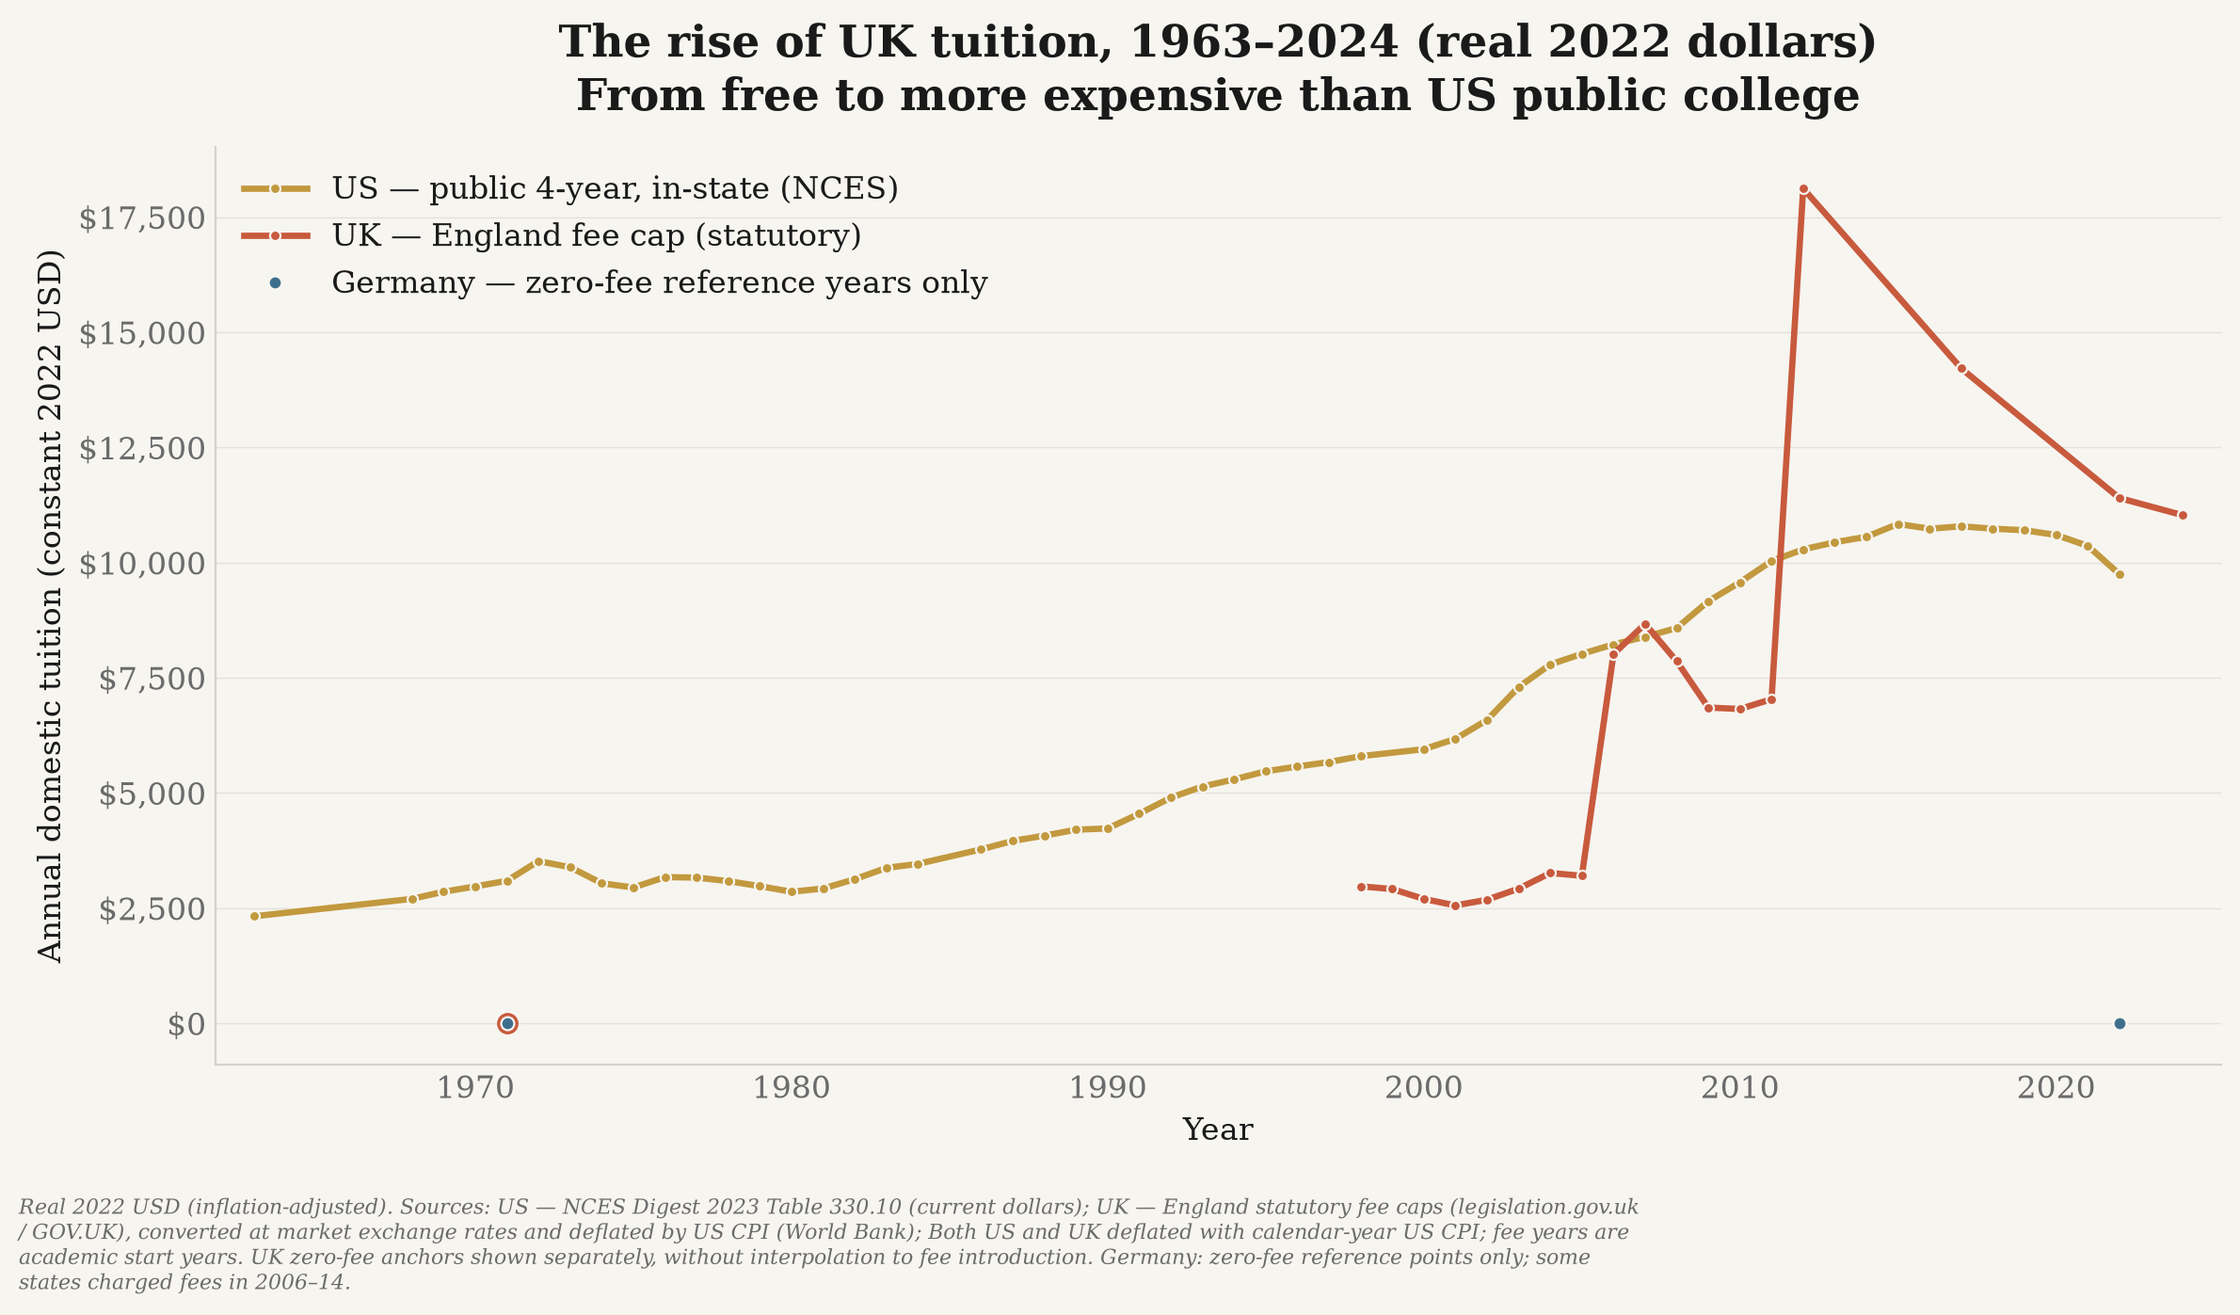
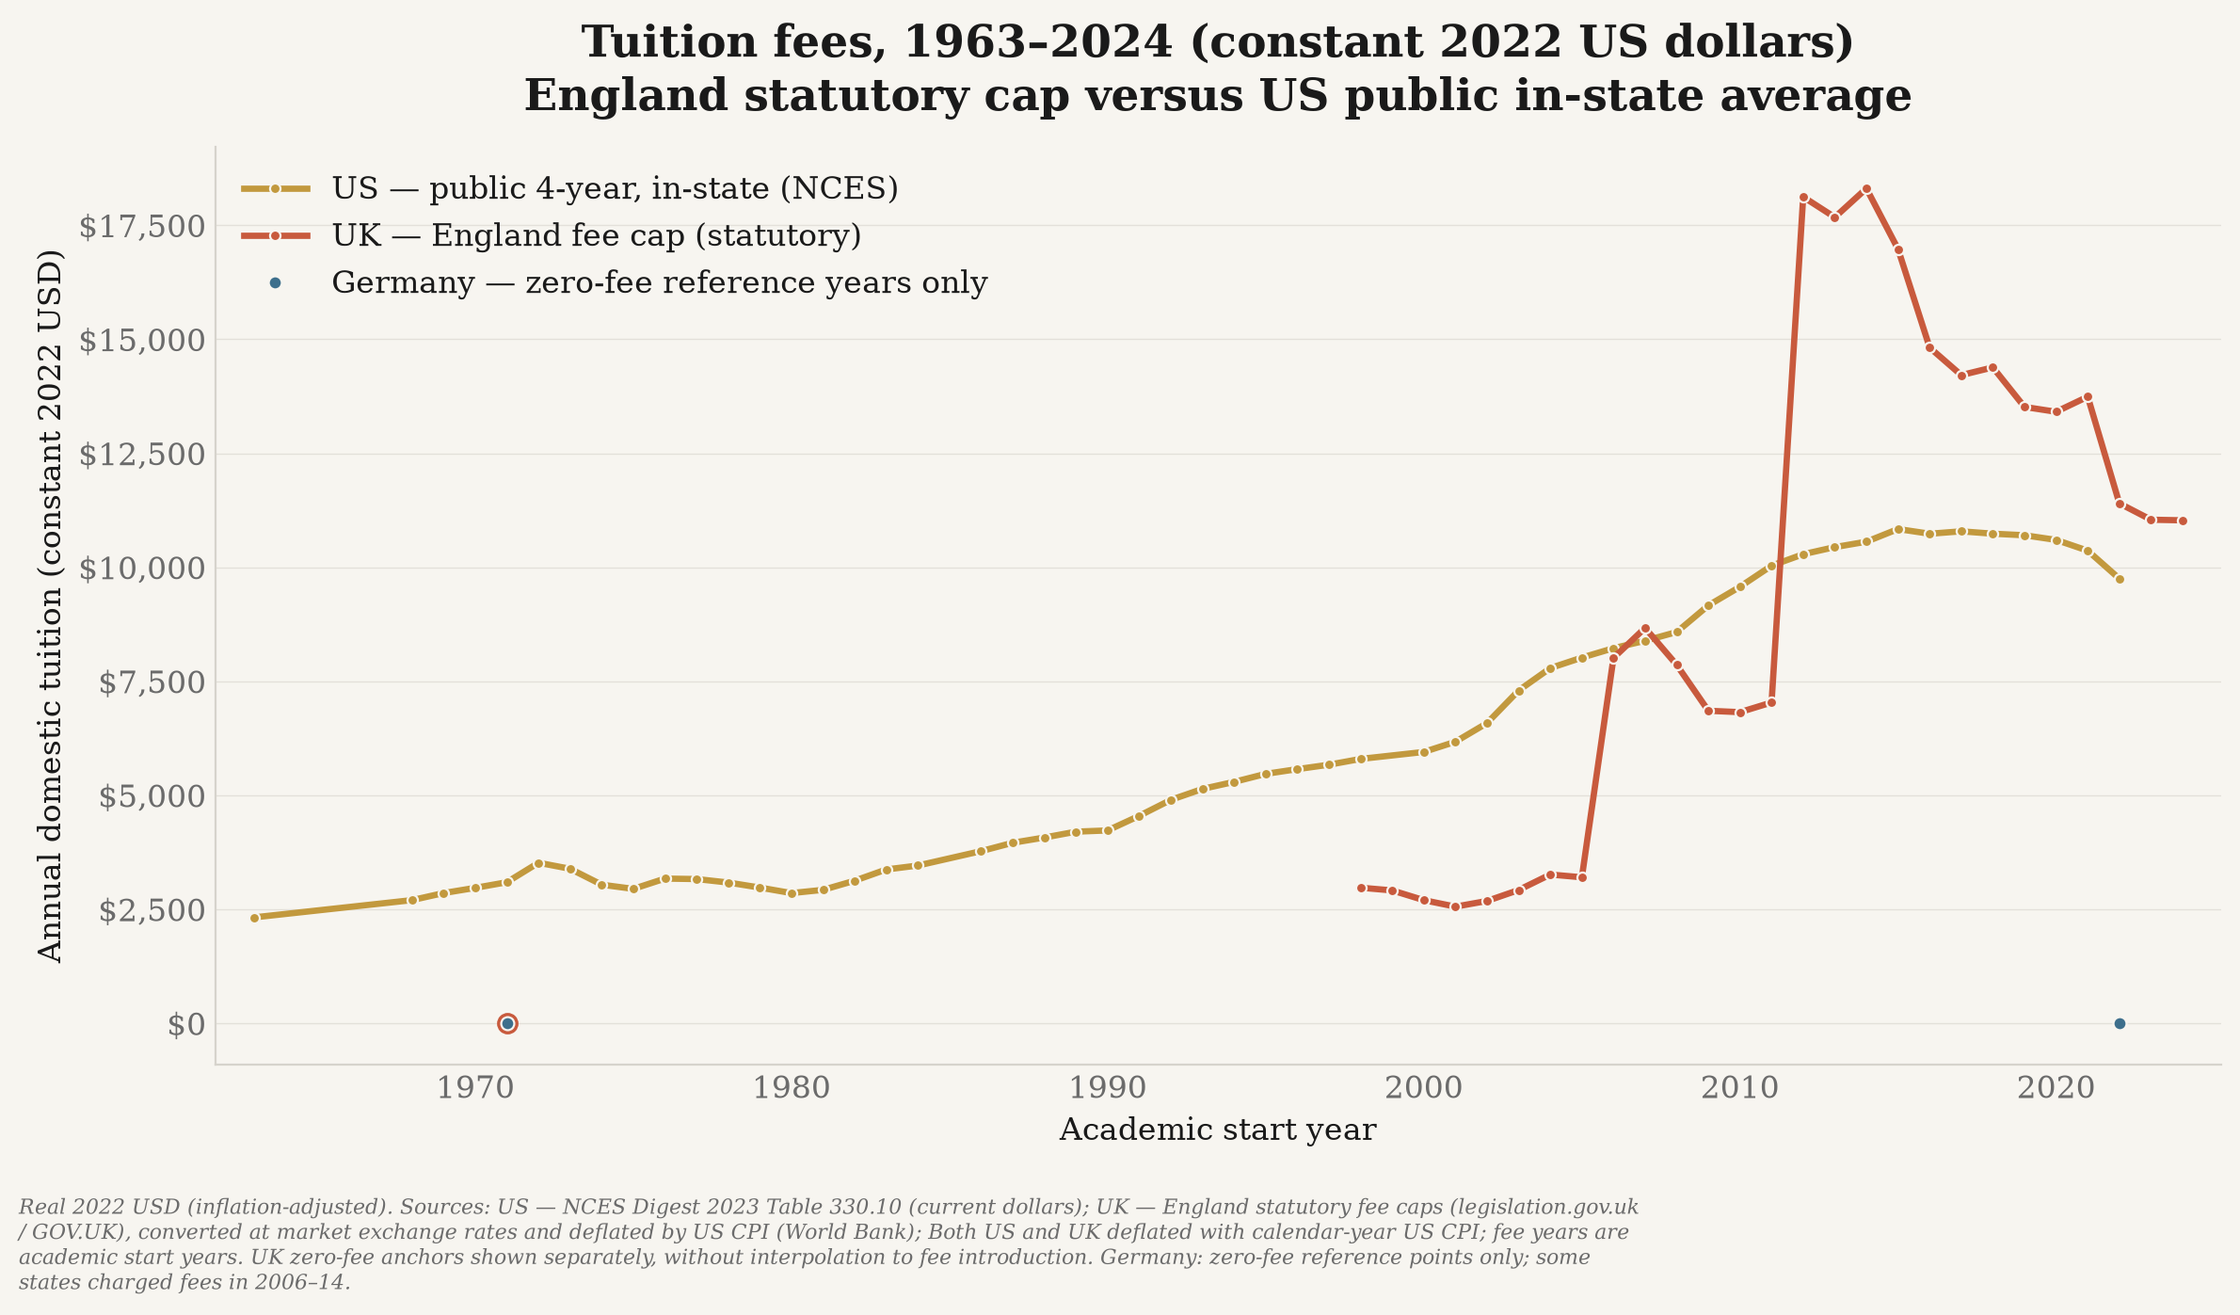
Publish precise overview periods and final audit limitations

diff --git a/scorecard.py b/scorecard.py
@@ -10,6 +10,7 @@ Usage:  python scorecard.py
 from __future__ import annotations
 
 import csv
+from datetime import date
 import pathlib
 import re
 import sys
@@ -74,16 +75,33 @@ def gdp_vs_us():
     return ys, [100 * uk[y] / us[y] for y in ys]
 
 
-def nhs_england():
+def _nhs_observations():
     r = _rows(OUT / "nhs" / "nhs_waiting_times.csv")
     pts = {}
     for x in sorted(r, key=lambda x: x["date"]):
         if x["nation_code"] == "ENG" and x["metric"] == "rtt_waiting_list_total" and x.get("value"):
             y = _year(x["date"])
             if y:
-                pts[y] = float(x["value"])  # keep last (latest month) per year
+                pts[y] = x  # keep last (latest month) per year
+    return pts
+
+
+def nhs_england():
+    pts = _nhs_observations()
     ys = sorted(pts)
-    return ys, [pts[y] for y in ys]
+    return ys, [float(pts[y]["value"]) for y in ys]
+
+
+def nhs_period(year):
+    return date.fromisoformat(_nhs_observations()[year]["date"]).strftime("%b %Y")
+
+
+def financial_period(year):
+    return f"{year}–{str(year + 1)[-2:]}"
+
+
+def academic_period(year):
+    return f"{year}/{str(year + 1)[-2:]}"
 
 
 def tuition_real():
@@ -129,17 +147,26 @@ def food_bank_parcels():
     return ys, [pts[y] for y in ys]
 
 
-def crime_incidents():
-    """CSEW incidents excluding fraud and computer misuse, converted from thousands."""
+def _crime_observations():
     r = _rows(DATA / "crime_csew_long.csv")
     name = "ALL CSEW HEADLINE CRIME EXCLUDING FRAUD AND COMPUTER MISUSE"
     pts = {
-        int(x["year"]): float(x["value"]) * 1_000
+        int(x["year"]): x
         for x in sorted(r, key=lambda x: x["date"])
         if x["offence_group"] == name and x.get("value")
     }
+    return pts
+
+
+def crime_incidents():
+    """CSEW incidents excluding fraud and computer misuse, converted from thousands."""
+    pts = _crime_observations()
     ys = sorted(pts)
-    return ys, [pts[y] for y in ys]
+    return ys, [float(pts[y]["value"]) * 1_000 for y in ys]
+
+
+def crime_period(year):
+    return date.fromisoformat(_crime_observations()[year]["date"]).strftime("YE %b %Y")
 
 
 # title, loader, value formatter, good_direction (+1 up-is-good, -1 down-is-good, 0 neutral),
@@ -151,21 +178,21 @@ PANELS = [
     ("Listed firms, UK (WDI)", uk_listed_companies, lambda v: f"{v:,.0f}", +1,
      "World Bank/WFE · excludes funds & pure holdings", 2007),
     ("NHS waiting pathways, England", nhs_england, lambda v: f"{v/1e6:.1f}M", -1,
-     "NHS England · pathways, not unique patients", 2007),
-    ("Culture & recreation spending", culture_spending, lambda v: f"£{v:.1f}bn", +1,
-     "HM Treasury · real 2025–26 prices", 2007),
+     "NHS England · reported pathways; excludes missing-provider estimates", 2007, nhs_period),
+    ("Recreation, culture & religion", culture_spending, lambda v: f"£{v:.1f}bn", +1,
+     "HM Treasury · financial years, real 2025–26 prices", 2007, financial_period),
     ("England tuition cap (real)", tuition_real, lambda v: f"${v/1e3:.1f}k", -1,
-     "England fee cap · market FX, constant 2022 US$", 2006),
+     "England fee cap · academic years; FX, constant 2022 US$", 2006, academic_period),
     ("Trust in national government", trust_govt, lambda v: f"{v:.0f}%", +1,
      "OECD / Gallup World Poll via OWID", 2007),
     ("Emergency food parcels", food_bank_parcels, lambda v: f"{v/1e6:.1f}M", -1,
      "Trussell network · calendar-year parcels, not people", 2015),
     ("Crime incidents, England & Wales", crime_incidents, lambda v: f"{v/1e6:.1f}M", -1,
-     "ONS CSEW · excludes fraud & computer misuse", 2007),
+     "ONS CSEW · excludes fraud & computer misuse", 2007, crime_period),
 ]
 
 
-def _panel(ax, title, loader, fmt, good_dir, source, start):
+def _panel(ax, title, loader, fmt, good_dir, source, start, period_fmt=str):
     xs, ys = loader()
     pts = [(x, y) for x, y in zip(xs, ys) if x >= start]
     if not pts:
@@ -184,7 +211,7 @@ def _panel(ax, title, loader, fmt, good_dir, source, start):
     ax.annotate(fmt(ys[-1]), xy=(1, 1), xycoords="axes fraction", xytext=(0, 18),
                 textcoords="offset points", fontsize=14, fontweight="bold", color=color,
                 ha="right", va="bottom")
-    ax.annotate(f"{fmt(ys[0])} in {xs[0]}  to  {fmt(ys[-1])} in {xs[-1]}",
+    ax.annotate(f"{fmt(ys[0])} in {period_fmt(xs[0])}  to  {fmt(ys[-1])} in {period_fmt(xs[-1])}",
                 xy=(0, 1), xycoords="axes fraction", xytext=(0, 3), textcoords="offset points",
                 fontsize=8, color=MUTED, ha="left", va="bottom")
 
@@ -196,7 +223,7 @@ def _panel(ax, title, loader, fmt, good_dir, source, start):
     ax.set_axisbelow(True)
 
     ax.set_xticks([xs[0], xs[-1]])
-    ax.set_xticklabels([str(xs[0]), str(xs[-1])], fontsize=8.5, color=MUTED)
+    ax.set_xticklabels([period_fmt(xs[0]), period_fmt(xs[-1])], fontsize=8.5, color=MUTED)
     # Give each panel at least a minimum span relative to its own magnitude, so a
     # genuinely small move (e.g. tax burden 33->34%, median age 39->41) is not
     # magnified to fill the panel and overstate the change.

diff --git a/tests/test_scorecard.py b/tests/test_scorecard.py
@@ -63,7 +63,7 @@ def test_crime_panel_shows_counts_and_marks_falling_crime_as_improvement(monkeyp
         assert list(ax.lines[0].get_ydata()) == [11_182_000, 4_333_000]
         assert ax.lines[0].get_color() == scorecard.BETTER
         text = " ".join(t.get_text() for t in ax.texts)
-        assert "11.2M in 2007  to  4.3M in 2026" in text
+        assert "11.2M in YE Mar 2007  to  4.3M in YE Mar 2026" in text
         assert "excludes fraud & computer misuse" in text
     finally:
         scorecard.plt.close(fig)
@@ -93,6 +93,24 @@ def test_nhs_annual_snapshot_uses_latest_date_not_input_order(monkeypatch):
         )
     ])
     assert scorecard.nhs_england() == ([2025], [7_000_000])
+    assert scorecard.nhs_period(2025) == "Dec 2025"
+
+
+def test_scorecard_discloses_month_financial_and_academic_periods(monkeypatch):
+    monkeypatch.setattr(scorecard, "_rows", lambda path: [
+        {"nation_code": "ENG", "metric": "rtt_waiting_list_total",
+         "date": "2026-06-30", "value": "7000000"},
+    ])
+    assert scorecard.nhs_period(2026) == "Jun 2026"
+    fig, ax = scorecard.plt.subplots()
+    try:
+        scorecard._panel(ax, "Spending", lambda: ([2007, 2025], [19.1, 15.1]),
+                         str, 1, "Source", 2007, scorecard.financial_period)
+        assert any("2007–08" in t.get_text() and "2025–26" in t.get_text() for t in ax.texts)
+        assert [t.get_text() for t in ax.get_xticklabels()] == ["2007–08", "2025–26"]
+        assert scorecard.academic_period(2024) == "2024/25"
+    finally:
+        scorecard.plt.close(fig)
 
 
 def test_gdp_comparison_uses_constant_ppp_and_shared_years(monkeypatch):

diff --git a/tuition/plot_history.py b/tuition/plot_history.py
@@ -76,13 +76,13 @@ def plot(out_path: str) -> None:
                     markeredgecolor=theme.BG, markeredgewidth=0.8, label=label)
 
     ax.set_ylabel("Annual domestic tuition (constant 2022 USD)")
-    ax.set_xlabel("Year")
+    ax.set_xlabel("Academic start year")
     ax.yaxis.set_major_formatter(plt.FuncFormatter(lambda v, _: f"${v:,.0f}"))
     all_years = [y for pts in data.values() for y, _ in pts]
     span = f"{min(all_years)}\u2013{max(all_years)}" if all_years else ""
     ax.set_title(
-        f"The rise of UK tuition, {span} (real 2022 dollars)\n"
-        "From free to more expensive than US public college",
+        f"Tuition fees, {span} (constant 2022 US dollars)\n"
+        "England statutory cap versus US public in-state average",
         fontweight="bold", pad=14,
     )
     ax.grid(axis="y", linestyle="-", linewidth=0.5)

diff --git a/austerity_data/charts.py b/austerity_data/charts.py
@@ -20,7 +20,7 @@ START_YEAR = "2000-01"
 
 SERIES = {
     "housing_community": ("Housing", ACCENT, 3.2),
-    "recreation_culture": ("Culture & recreation", GOLD, 2.6),
+    "recreation_culture": ("Recreation, culture & religion", GOLD, 2.6),
     "public_order_safety": ("Public safety", BLUE, 2.6),
     "health": ("Health", GREEN, 2.8),
 }
@@ -162,7 +162,7 @@ def make_chart(source, output: Path | str = DEFAULT_OUTPUT) -> Path:
     panel_titles = {
         "housing_community": "Housing & community",
         "public_order_safety": "Public safety",
-        "recreation_culture": "Culture & recreation",
+        "recreation_culture": "Recreation, culture & religion",
         "health": "Health",
     }
     for ax, category in zip(service_axes, panel_order):

diff --git a/README.md b/README.md
@@ -18,6 +18,8 @@ charity administrative counts and a constructed tuition-fee series. It uses 2007
 the common framing; each panel uses its own available baseline and latest year.
 It is not a composite index or an exhaustive measure of UK performance. Colours
 describe the selected direction of change between endpoints, not the latest annual trend.
+Monthly NHS observations, financial years, academic years and CSEW year-ending
+periods are labelled separately; they are not interchangeable annual observations.
 
 <p align="center">
   <img src="outputs/uk_decline_scorecard.png" width="1200" alt="Eight source-backed indicators showing change in the UK since 2007">
@@ -115,3 +117,50 @@ each analysis. Downloaded/intermediate data generally lives under `data/`
 The curated figures under `outputs/` are the committed showcase. Targeted observations
 have been checked against primary sources; this is not independent verification of
 every observation in every dataset.
+
+### Final audit — 12 October 2026
+
+The audit traced published charts to their loaders and source definitions, rechecked
+overview endpoints against WDI, ONS, Treasury, OWID and Trussell, and reproduced live
+OECD tax, WDI trade and age pipelines in an isolated staging tree. Confirmed fixes
+include NHS lines/indexes crossing definition changes, superseded NI cancer counts,
+incomplete age profiles being normalised into plausible medians, rail smoothers
+drawing through missing quarters,
+ambiguous overview periods and stale source-splice/fallback documentation. Historical
+tuition was rebuilt to include annual fee/FX/CPI observations between policy changes.
+
+Alternative-baseline checks use observed 2010 and 2019 values where available, not
+invented missing observations. For example, the real UK/US GDP ratio fell **14.0%**
+from 2007, **12.0%** from 2010 and **9.1%** from 2019; recreation/culture/religion
+spending fell **20.9%**, **22.6%** and **3.8%** respectively. Magnitudes depend on the
+baseline. Food-parcel counts fell **11.7% from 2024 to 2025** despite remaining above
+2015/2019 levels. The real market-dollar tuition cap rose **37.6% from 2006**
+but fell **18.4% from 2019**; it is not a measure of domestic purchasing power.
+The selected panels are not evidence that every measure worsened,
+and no chart by itself establishes a policy cause.
+
+Remaining limitations are explicit: the EU tuition compilation contains approximate
+secondary-source values and mixed definitions; population-age distributions from
+WPP 2024 contain projection assumptions from 2024 onward; country medians are
+unweighted, not medians of people; survey crime/trust estimates carry uncertainty;
+and endpoint dates differ across sources. WDI still has no US CPI observation for
+2025, so the real-dollar tuition history ends in 2024 rather than borrowing another
+year's deflator. NI cancer/outpatient/diagnostic source discovery was repaired and
+those series refreshed through June 2026. NI's October 2026 cancer release revises
+historical waits after a calculation error; the refreshed dataset uses those
+revisions, omits months without all five trusts, and splits the encompass breaks.
+NHS England landing pages return empty responses/browser challenges in this audit
+environment. Cached June 2026 RTT and pinned April 2026 cancer coverage is explicitly
+not current: the official cancer index lists at least July 2026 data. These older
+endpoints remain dated rather than being presented as the latest publication.
+The rail reconstruction was independently compared with official Table 3113 over
+28 overlapping quarters: maximum discrepancies are **0.51 percentage points for
+London and South East** and **0.18 points for Great Britain**. These approximate
+series are not exact official sector aggregates.
+
+Verification: **303 regression tests passed**, as did all **16 GDP/PPP validation
+checks**. All **2,970 live country-year age profiles** passed the complete-profile
+checks; the opt-in age snapshot also passed. Affected NHS, age, rail, tuition,
+spending and overview figures were rebuilt, with representative published figures
+visually inspected. Tests validate the implemented methods, not the truth of every
+source observation or causal interpretation.

diff --git a/tax/README.md b/tax/README.md
@@ -82,8 +82,10 @@ For offline reproducibility (and CI), the pipeline can fall back to
 `data/raw/manual_tax.csv`. **This file is not hand-typed data** — it is a verifiable
 **snapshot of the live OECD data** (latest year, all 27 countries, the headline variants),
 regenerated from `data/tax_combined_long.csv`. Every row keeps its OECD `source` + `year`,
-so it traces back to the same API. The fallback is used **only** when the live fetch returns
-nothing, and each source only ever contributes its own metrics (no cross-source mixing).
+so it traces back to the same API. The fallback requires
+**`--allow-snapshot-fallback`**, is used only when the live fetch returns nothing,
+and each source contributes only its own metrics. Incomplete live responses are
+rejected, not silently combined with the snapshot.
 
 ## A note on inflation adjustment
 
@@ -95,11 +97,13 @@ in this analysis is a **ratio / percentage**, not a monetary amount:
 - `net_personal_avg_tax_rate_pct` = taxes ÷ gross wage (same year → price level cancels).
 
 Because numerator and denominator are in the **same year's currency**, these ratios are
-inherently **inflation-neutral and directly comparable across years and countries**. There
+**dimensionless and do not require CPI deflation**. This does not make them immune
+to inflation: frozen thresholds (fiscal drag), wage composition and different growth in
+tax receipts and GDP can change the ratios. There
 are **no nominal currency (£/$/€) values** anywhere in the outputs, so there is nothing to
 deflate. (Had we reported, say, tax **paid in pounds**, we would deflate by CPI — but that
 is deliberately not a metric here.) Cross-country comparability is instead handled by the
-OECD's own harmonised definitions; where a level isn't strictly apples-to-apples, the
+OECD's harmonised definitions and matching household/year scenarios; where a level isn't strictly apples-to-apples, the
 `tax_manifest.json` `caveats` block documents it.
 
 ## Run

diff --git a/markets_data/README.md b/markets_data/README.md
@@ -51,9 +51,10 @@ are never spliced or interpolated. Full per-metric citations are in
 > funds, unit trusts and pure holding/investment companies. Domicile-based LSE totals alone
 > do not apply those filters, so the close overlap does not validate a seamless splice.
 > Regenerate with `python -m markets_data.lse_factsheets` (writes the cited
-> `data/uk_listed_companies_lse.csv`). The scorecard's "UK-listed companies" panel uses the WB
-> series through 2022 and the LSE UK-domiciled count for 2023+ (**1,538 / 1,413 / 1,306** for
-> 2023–2025), with the source switch noted. Every value is read straight from the LSE
+> `data/uk_listed_companies_lse.csv`). The scorecard's listed-company panel uses
+> **only the comparable World Bank/WFE series through 2022**. The LSE UK-domiciled
+> counts (**1,538 / 1,413 / 1,306** for 2023–2025) remain a separate dataset;
+> they are not appended to the scorecard. Every LSE value is read straight from the
 > factsheet; none are estimated or interpolated.
 
 ## Usage

diff --git a/austerity_data/README.md b/austerity_data/README.md
@@ -19,7 +19,7 @@ The broad public-spending total barely fell across the 2010s, but that headline 
 large redistribution:
 
 - real spending on **housing and community amenities** fell by roughly one-third at its trough;
-- **culture and recreation**, **public order and safety**, and **defence** also sustained
+- **recreation, culture and religion**, **public order and safety**, and **defence** also sustained
   substantial real cuts;
 - **health** was protected and rose over the decade;
 - **public sector net investment** fell from 2.5% of GDP in 2010–11 to 1.5% in 2013–14.
